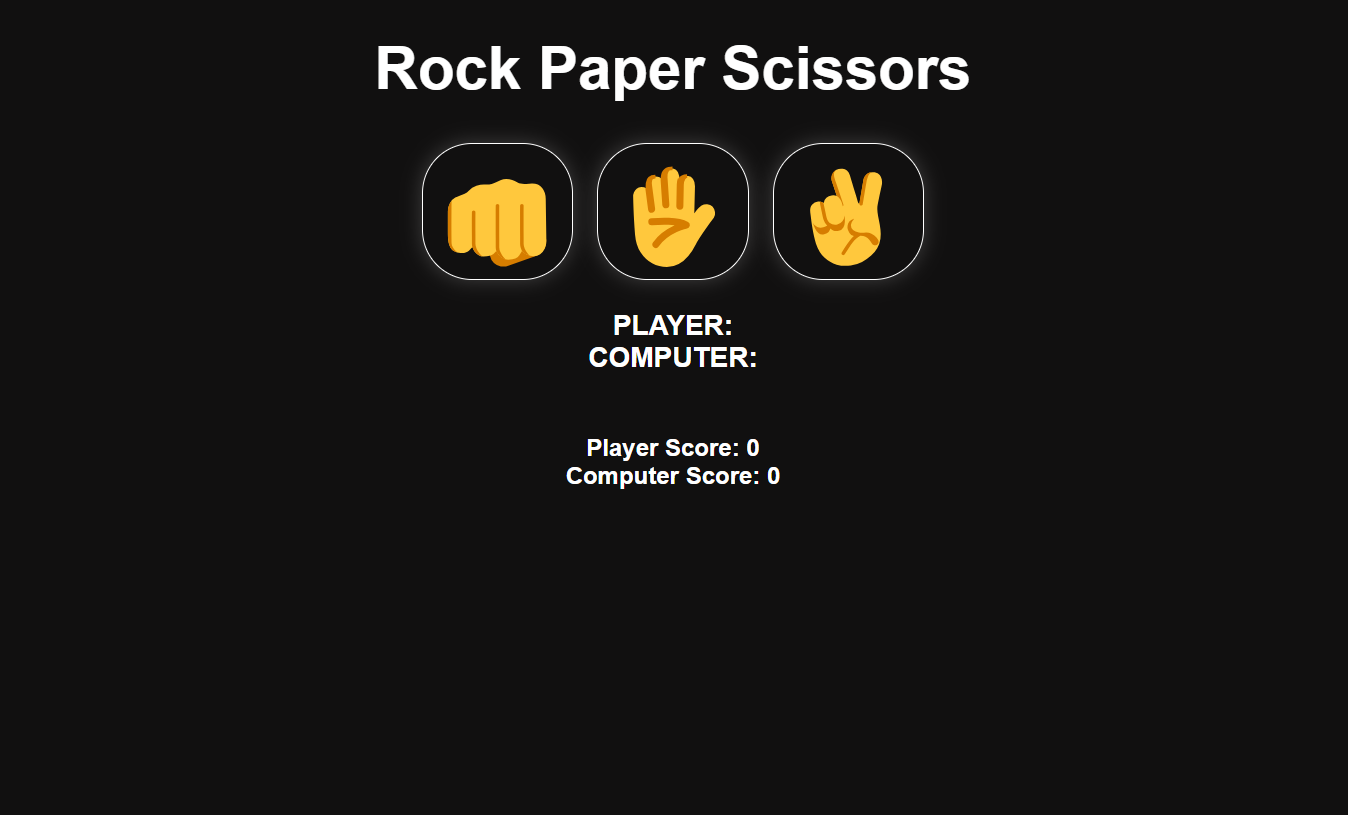
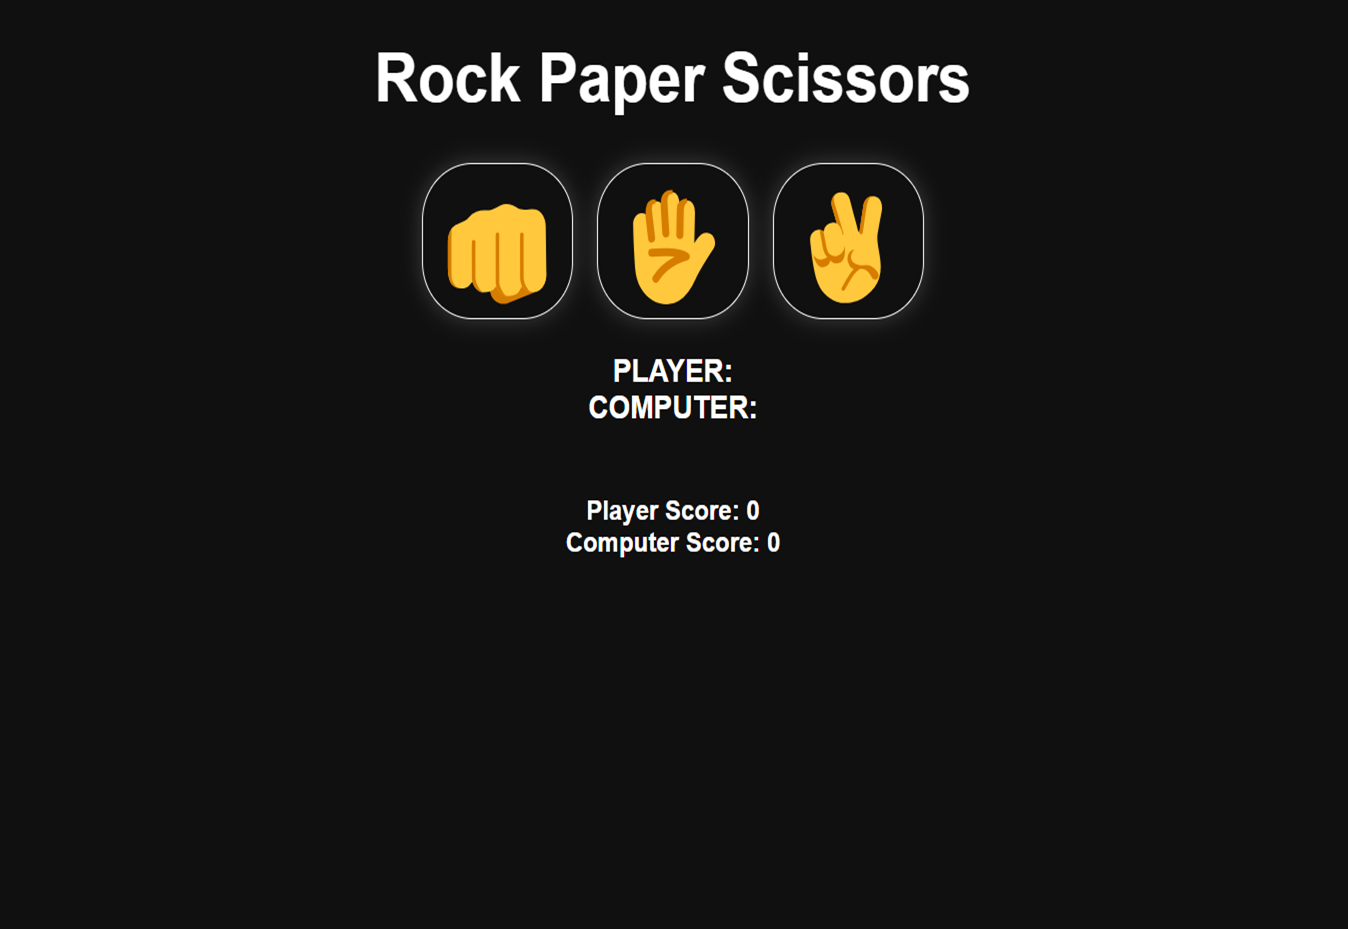
Adjust size image

diff --git a/work.html b/work.html
@@ -102,9 +102,9 @@
           <div class="col-lg-6">
             <a href="https://transcendent-weather.netlify.app/" target="_blank">
               <img
-                src="images/weather2.png"
+                src="images/Rock-Paper-Scissors.png"
                 class="img-fluid"
-                alt="weather app"
+                alt="rock paper scissors"
               />
             </a>
           </div>
